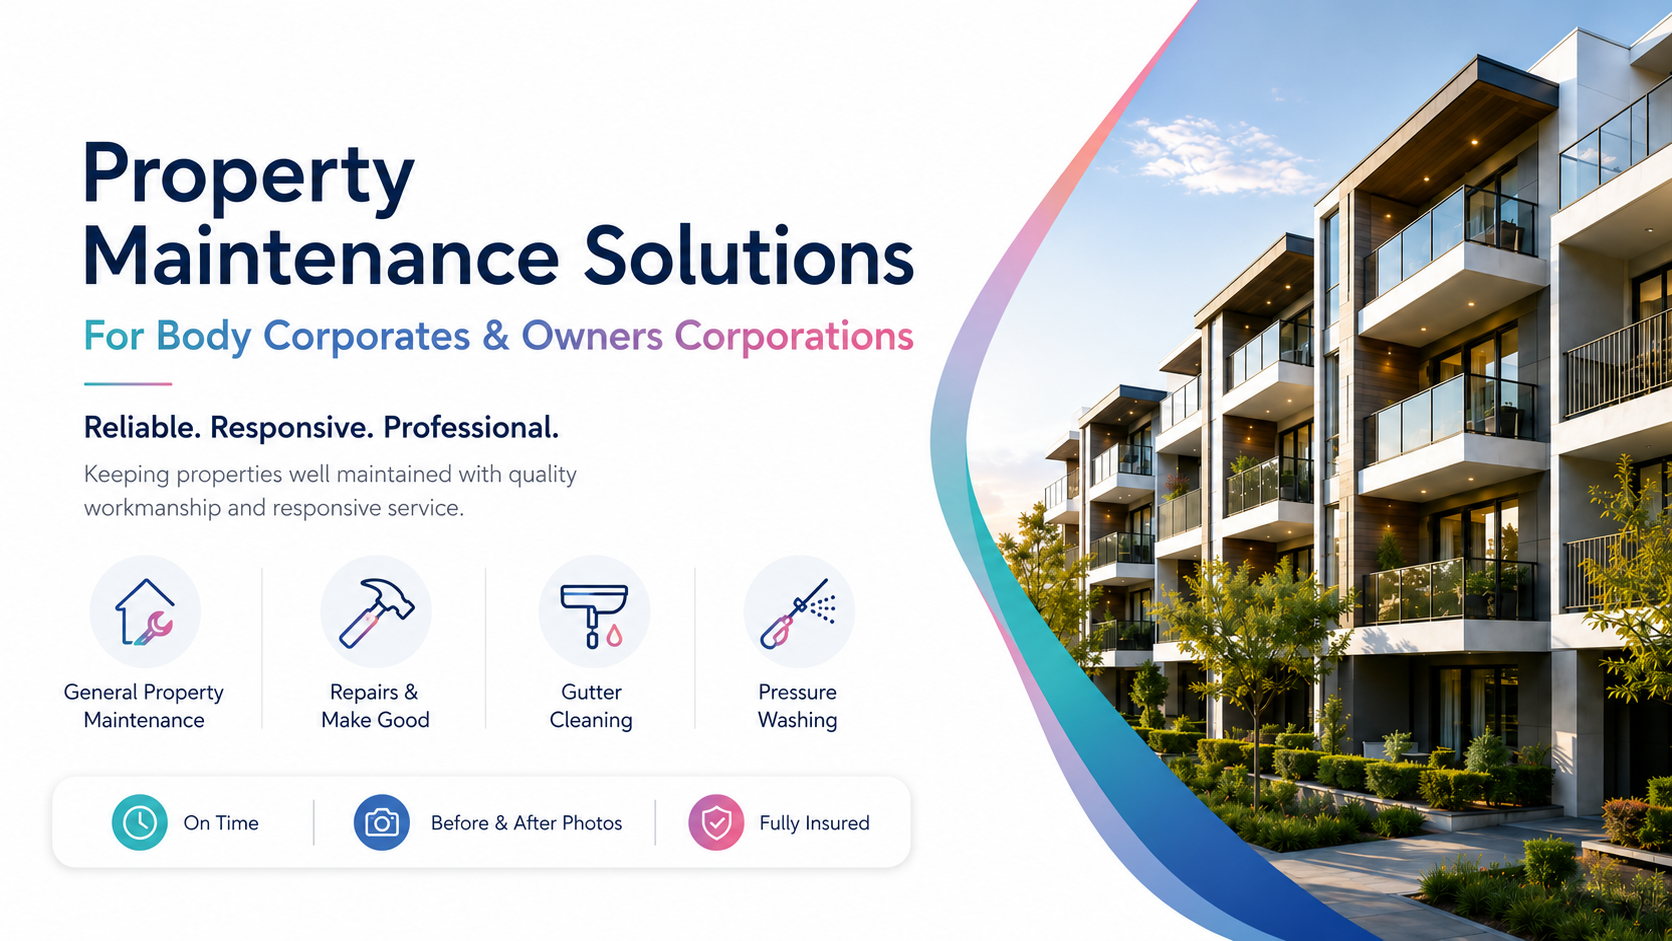
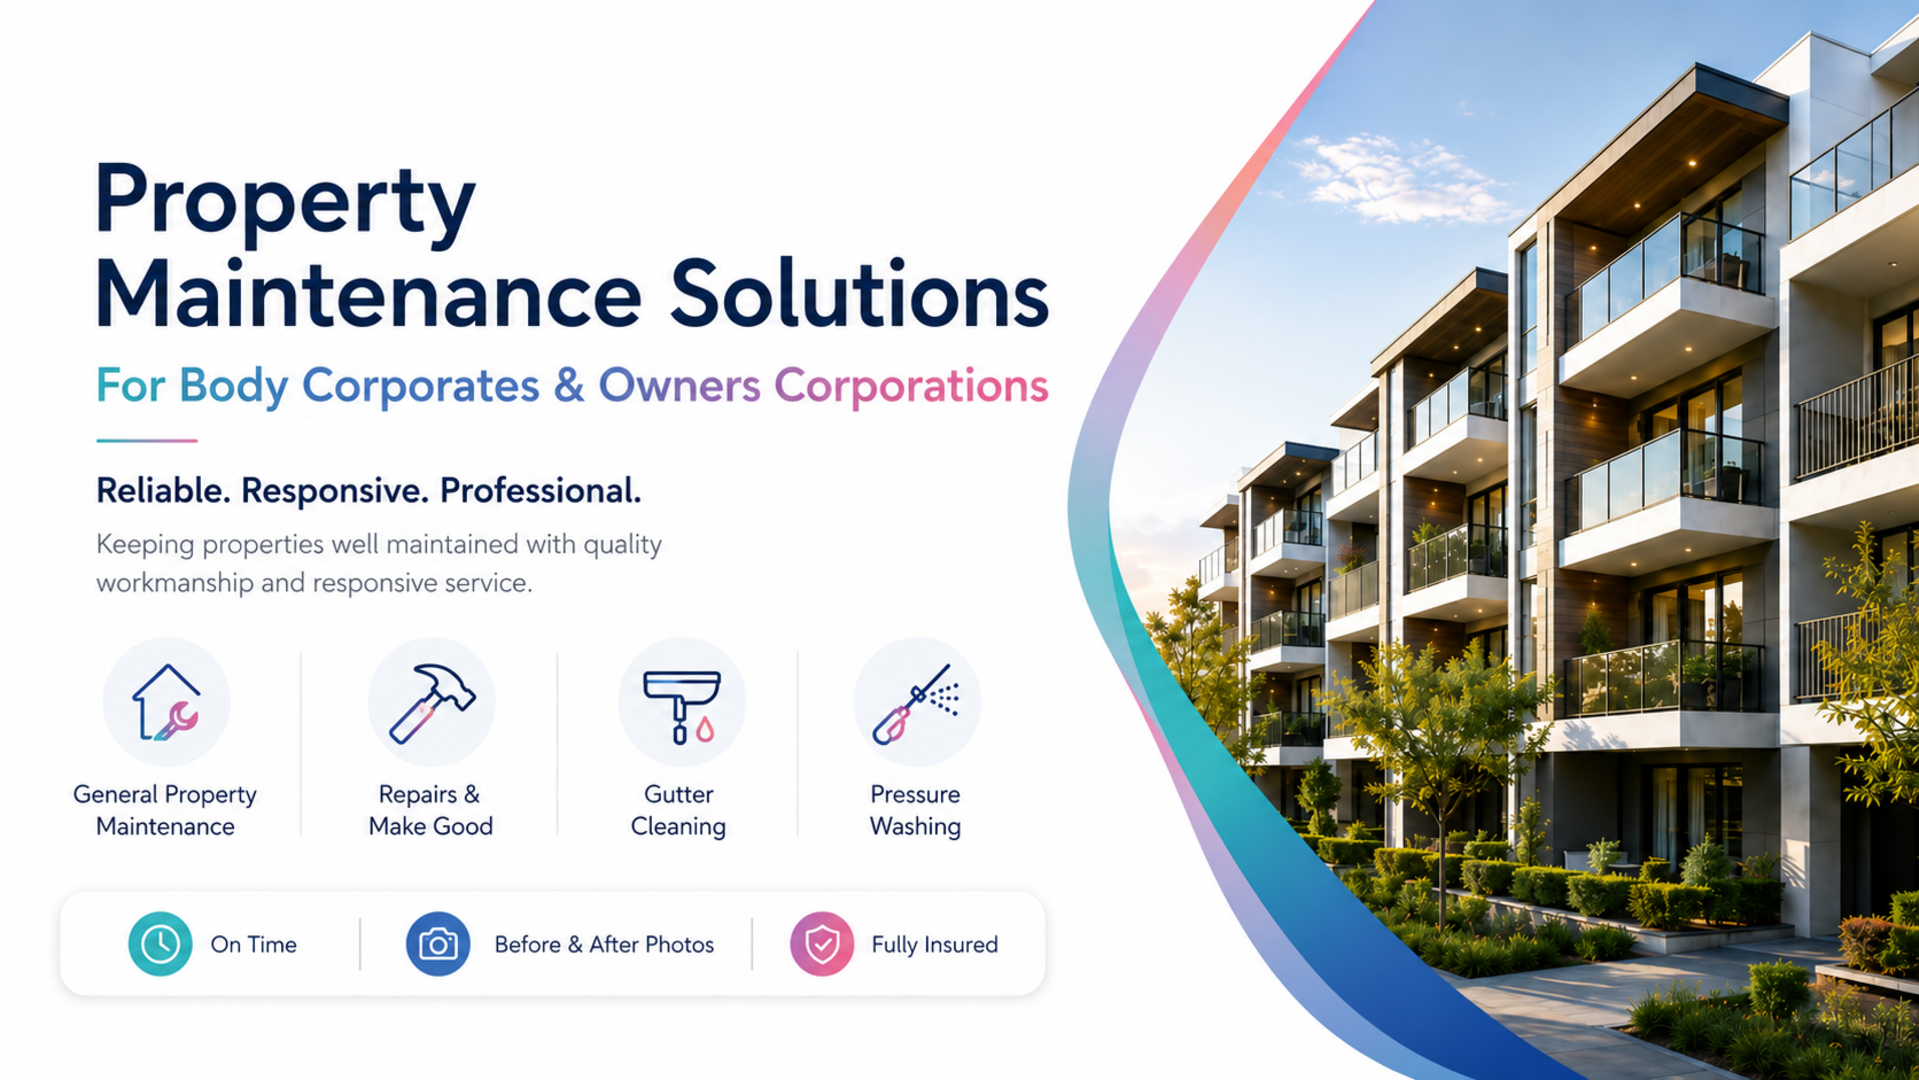
Deplyment

diff --git a/src/components/Services.jsx b/src/components/Services.jsx
@@ -49,7 +49,6 @@ const Services = () => {
       color: "from-blue-500 to-pink-600",
       hover: "hover:shadow-pink-500/25",
       href: "/docs/aylux-property-maintenance.pdf",
-      download: true,
     },
   ];
 
@@ -126,12 +125,7 @@ const Services = () => {
               {/* Footer CTA */}
               <div className="px-8 pb-8 flex justify-end">
                 {service.href ? (
-                  <a
-                    href={service.href}
-                    download={service.download}
-                    target={service.download ? undefined : "_blank"}
-                    rel="noopener noreferrer"
-                  >
+                  <a href={service.href} target="_blank" rel="noopener noreferrer">
                     <CircularButton text="Learn More" size="sm" />
                   </a>
                 ) : (
